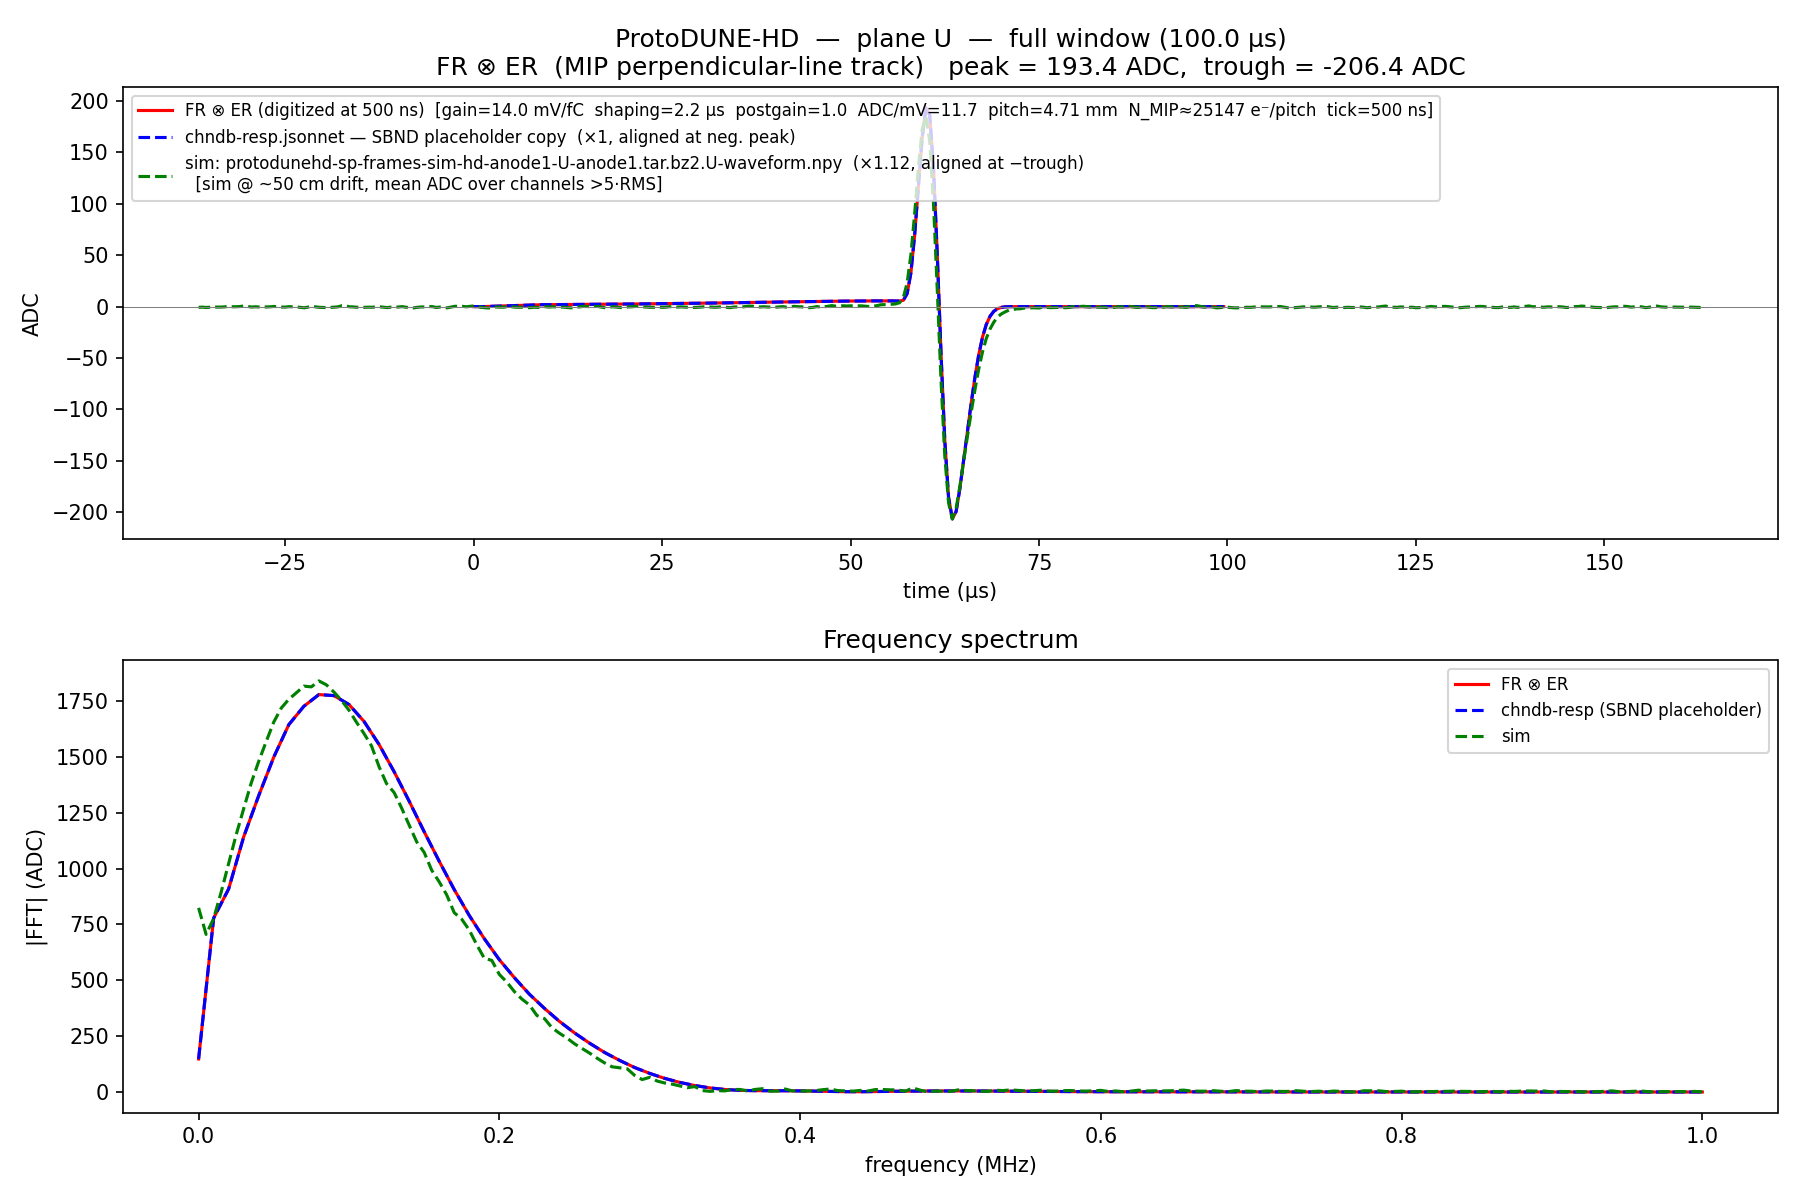
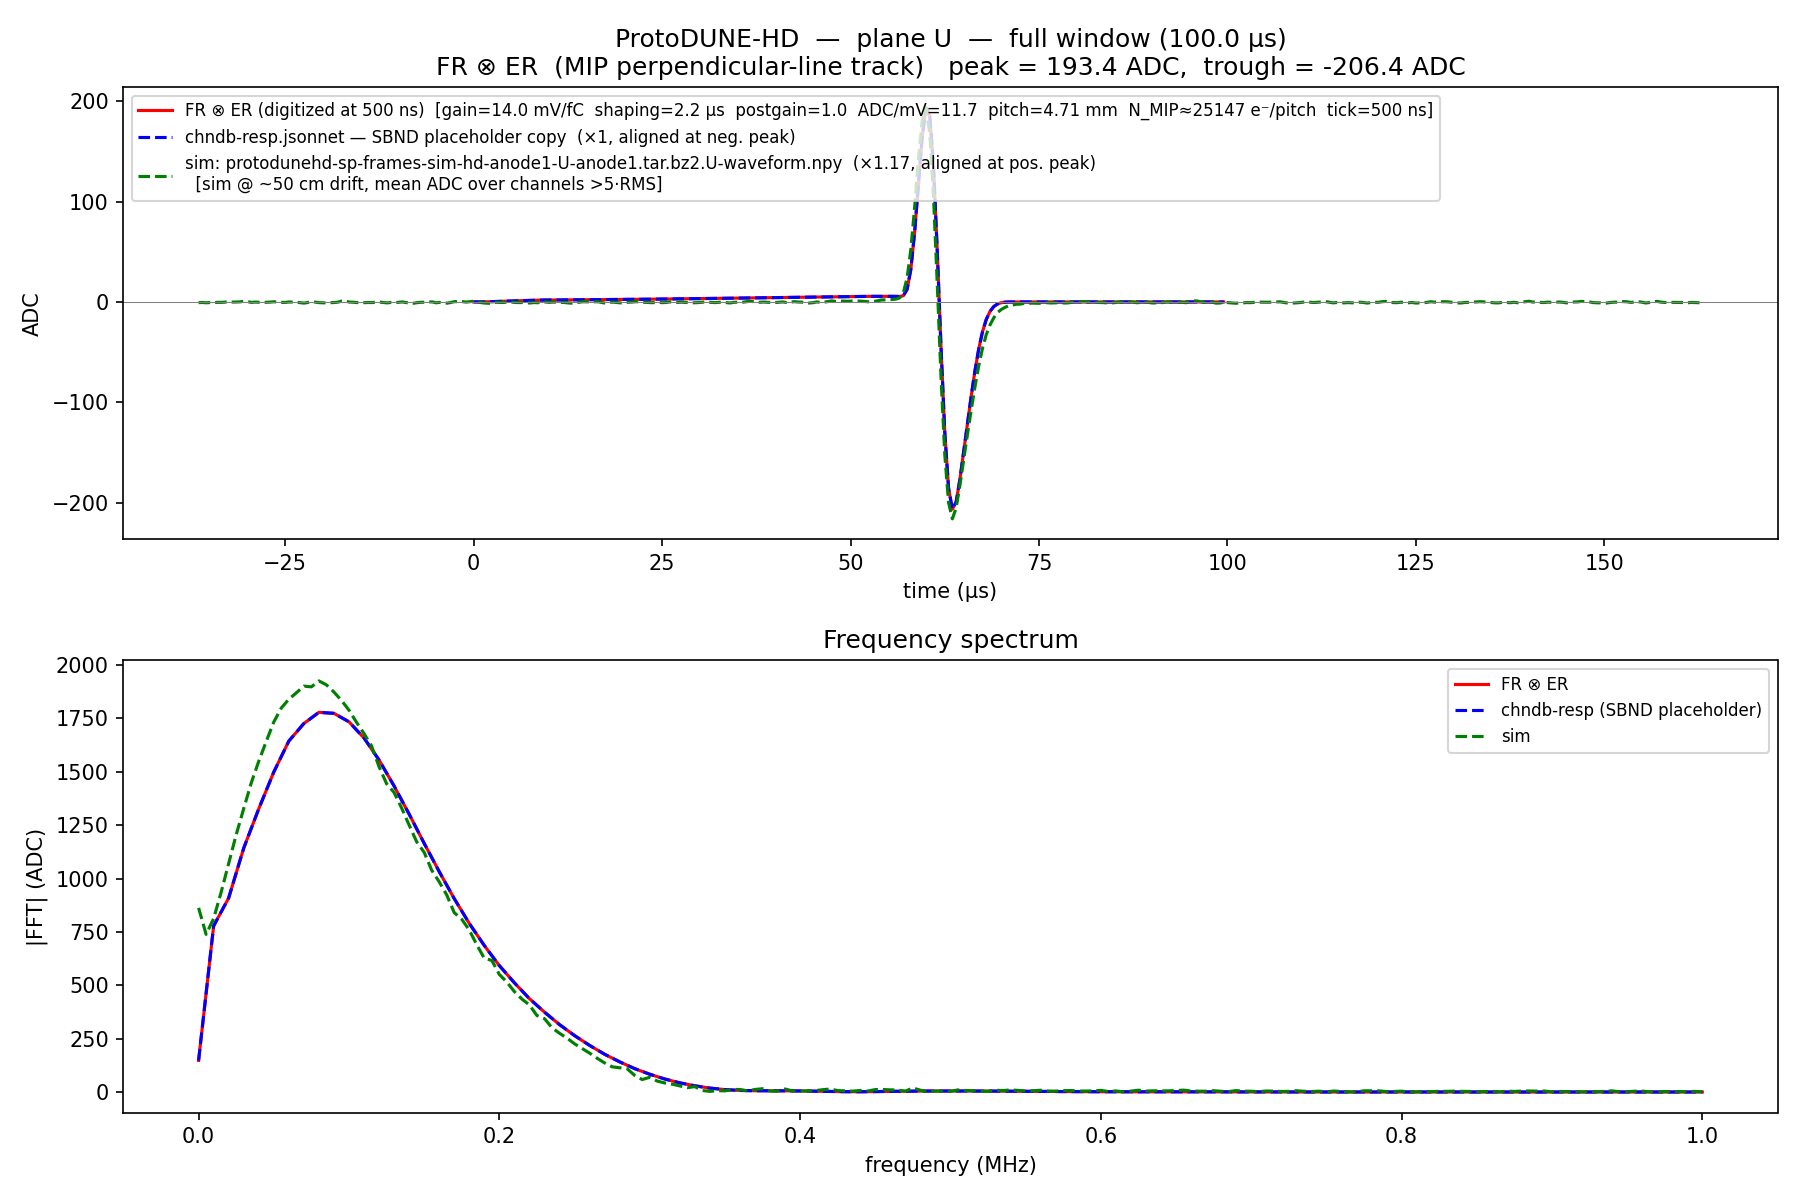
pdvd/nf_plot: fix sim-overlay alignment to pos. peak; add bipolar balance printout; add uboone plots

diff --git a/pdvd/nf_plot/track_response_pdvd_top.py b/pdvd/nf_plot/track_response_pdvd_top.py
@@ -105,9 +105,7 @@ def load_sim_overlay(plane_label):
     path = os.path.join(SIM_DIR, SIM_FILE_FMT.format(P=plane_label))
     if not os.path.exists(path):
         return None
-    y = np.load(path)
-    j = int(np.argmax(np.abs(y)))
-    return path, y, j
+    return path, np.load(path)
 
 
 def line_source_response(plane):
@@ -182,15 +180,14 @@ def make_plot(wave_adc, chndb_ref, tick_us, plane_label, pitch_mm, n_mip_pl, out
     ax.plot(t_chndb, chndb_scaled, 'b--', lw=1.5,
             label=f'chndb-resp.jsonnet — SBND placeholder copy  (×{scale:.3g}, aligned at neg. peak)')
     if sim is not None:
-        sim_path, y_sim, j_sim = sim
+        sim_path, y_sim = sim
         sim_basename = os.path.basename(sim_path)
-        i_model = int(np.argmax(wave_adc)) if y_sim[j_sim] > 0 else int(np.argmin(wave_adc))
-        y_model = wave_adc[i_model]
-        sim_scale = y_model / y_sim[j_sim]
+        j_sim = int(np.argmax(y_sim))
+        i_model = int(np.argmax(wave_adc))
+        sim_scale = wave_adc[i_model] / y_sim[j_sim]
         t_sim = t_us[i_model] + (np.arange(len(y_sim)) - j_sim) * SIM_TICK_US
-        align_lbl = '+peak' if y_sim[j_sim] > 0 else '−trough'
         ax.plot(t_sim, y_sim * sim_scale, 'g--', lw=1.5,
-                label=(f'sim: {sim_basename}  (×{sim_scale:.3g}, aligned at {align_lbl})'
+                label=(f'sim: {sim_basename}  (×{sim_scale:.3g}, aligned at pos. peak)'
                        f'\n  [sim @ ~50 cm drift, mean ADC over channels >5·RMS]'))
     ax.axhline(0, color='gray', lw=0.5)
     ax.set_xlabel('time (µs)')
@@ -309,6 +306,14 @@ def run():
         print(f'                             '
               f'negative trough {pk_neg_adc:+.2f} ADC at {t_neg:.2f} µs')
 
+        sum_pos = float(wave_adc[wave_adc > 0].sum()) * tick_us
+        sum_neg = float(wave_adc[wave_adc < 0].sum()) * tick_us
+        net     = sum_pos + sum_neg
+        total   = sum_pos - sum_neg
+        balance = net / total
+        print(f'  bipolar balance:  ∫+ = {sum_pos:+.2f}  ∫- = {sum_neg:+.2f}  '
+              f'net = {net:+.2f}  total = {total:.2f}  balance = {balance:+.4f} (ADC·µs)')
+
         chndb_ref = chndb[chndb_keys[pid]]
         i_neg_c   = int(np.argmin(chndb_ref))
         scale     = pk_neg_adc / chndb_ref[i_neg_c]
@@ -317,11 +322,11 @@ def run():
 
         sim = load_sim_overlay(label)
         if sim is not None:
-            sim_path, y_sim, j_sim = sim
-            i_model = int(np.argmax(wave_adc)) if y_sim[j_sim] > 0 else int(np.argmin(wave_adc))
-            sim_scale = wave_adc[i_model] / y_sim[j_sim]
+            sim_path, y_sim = sim
+            j_sim = int(np.argmax(y_sim))
+            sim_scale = wave_adc[np.argmax(wave_adc)] / y_sim[j_sim]
             print(f'  sim overlay: {os.path.basename(sim_path)}  '
-                  f'peak|y|={abs(y_sim[j_sim]):.2f} at idx {j_sim},  scale={sim_scale:.4g}')
+                  f'pos peak={y_sim[j_sim]:.2f} at idx {j_sim},  scale={sim_scale:.4g}')
 
         outpath = os.path.join(WORKDIR, f'track_response_pdvd_top_{label}.png')
         make_plot(wave_adc, chndb_ref, tick_us, label, pl.pitch, n_mip_pl, outpath, er_info, sim=sim)

diff --git a/pdvd/nf_plot/track_response_pdvd_bottom.py b/pdvd/nf_plot/track_response_pdvd_bottom.py
@@ -87,9 +87,7 @@ def load_sim_overlay(plane_label):
     path = os.path.join(SIM_DIR, SIM_FILE_FMT.format(P=plane_label))
     if not os.path.exists(path):
         return None
-    y = np.load(path)
-    j = int(np.argmax(np.abs(y)))
-    return path, y, j
+    return path, np.load(path)
 
 
 def line_source_response(plane):
@@ -165,15 +163,14 @@ def make_plot(wave_adc, chndb_ref, tick_us, plane_label, pitch_mm, n_mip_pl, out
     ax.plot(t_chndb, chndb_scaled, 'b--', lw=1.5,
             label=f'chndb-resp.jsonnet — SBND placeholder copy  (×{scale:.3g}, aligned at neg. peak)')
     if sim is not None:
-        sim_path, y_sim, j_sim = sim
+        sim_path, y_sim = sim
         sim_basename = os.path.basename(sim_path)
-        i_model = int(np.argmax(wave_adc)) if y_sim[j_sim] > 0 else int(np.argmin(wave_adc))
-        y_model = wave_adc[i_model]
-        sim_scale = y_model / y_sim[j_sim]
+        j_sim = int(np.argmax(y_sim))
+        i_model = int(np.argmax(wave_adc))
+        sim_scale = wave_adc[i_model] / y_sim[j_sim]
         t_sim = t_us[i_model] + (np.arange(len(y_sim)) - j_sim) * SIM_TICK_US
-        align_lbl = '+peak' if y_sim[j_sim] > 0 else '−trough'
         ax.plot(t_sim, y_sim * sim_scale, 'g--', lw=1.5,
-                label=(f'sim: {sim_basename}  (×{sim_scale:.3g}, aligned at {align_lbl})'
+                label=(f'sim: {sim_basename}  (×{sim_scale:.3g}, aligned at pos. peak)'
                        f'\n  [sim @ ~50 cm drift, mean ADC over channels >5·RMS]'))
     ax.axhline(0, color='gray', lw=0.5)
     ax.set_xlabel('time (µs)')
@@ -274,6 +271,14 @@ def run():
         print(f'                             '
               f'negative trough {pk_neg_adc:+.2f} ADC at {t_neg:.2f} µs')
 
+        sum_pos = float(wave_adc[wave_adc > 0].sum()) * tick_us
+        sum_neg = float(wave_adc[wave_adc < 0].sum()) * tick_us
+        net     = sum_pos + sum_neg
+        total   = sum_pos - sum_neg
+        balance = net / total
+        print(f'  bipolar balance:  ∫+ = {sum_pos:+.2f}  ∫- = {sum_neg:+.2f}  '
+              f'net = {net:+.2f}  total = {total:.2f}  balance = {balance:+.4f} (ADC·µs)')
+
         chndb_ref = chndb[chndb_keys[pid]]
         i_neg_c   = int(np.argmin(chndb_ref))
         scale     = pk_neg_adc / chndb_ref[i_neg_c]
@@ -282,11 +287,11 @@ def run():
 
         sim = load_sim_overlay(label)
         if sim is not None:
-            sim_path, y_sim, j_sim = sim
-            i_model = int(np.argmax(wave_adc)) if y_sim[j_sim] > 0 else int(np.argmin(wave_adc))
-            sim_scale = wave_adc[i_model] / y_sim[j_sim]
+            sim_path, y_sim = sim
+            j_sim = int(np.argmax(y_sim))
+            sim_scale = wave_adc[np.argmax(wave_adc)] / y_sim[j_sim]
             print(f'  sim overlay: {os.path.basename(sim_path)}  '
-                  f'peak|y|={abs(y_sim[j_sim]):.2f} at idx {j_sim},  scale={sim_scale:.4g}')
+                  f'pos peak={y_sim[j_sim]:.2f} at idx {j_sim},  scale={sim_scale:.4g}')
 
         outpath = os.path.join(WORKDIR, f'track_response_pdvd_bottom_{label}.png')
         make_plot(wave_adc, chndb_ref, tick_us, label, pl.pitch, n_mip_pl, outpath, sim=sim)

diff --git a/pdvd/nf_plot/track_response_pdhd.py b/pdvd/nf_plot/track_response_pdhd.py
@@ -82,9 +82,7 @@ def load_sim_overlay(plane_label):
     path = os.path.join(SIM_DIR, SIM_FILE_FMT.format(P=plane_label))
     if not os.path.exists(path):
         return None
-    y = np.load(path)
-    j = int(np.argmax(np.abs(y)))
-    return path, y, j
+    return path, np.load(path)
 
 
 def line_source_response(plane):
@@ -160,15 +158,14 @@ def make_plot(wave_adc, chndb_ref, tick_us, plane_label, pitch_mm, n_mip_pl, out
     ax.plot(t_chndb, chndb_scaled, 'b--', lw=1.5,
             label=f'chndb-resp.jsonnet — SBND placeholder copy  (×{scale:.3g}, aligned at neg. peak)')
     if sim is not None:
-        sim_path, y_sim, j_sim = sim
+        sim_path, y_sim = sim
         sim_basename = os.path.basename(sim_path)
-        i_model = int(np.argmax(wave_adc)) if y_sim[j_sim] > 0 else int(np.argmin(wave_adc))
-        y_model = wave_adc[i_model]
-        sim_scale = y_model / y_sim[j_sim]
+        j_sim = int(np.argmax(y_sim))
+        i_model = int(np.argmax(wave_adc))
+        sim_scale = wave_adc[i_model] / y_sim[j_sim]
         t_sim = t_us[i_model] + (np.arange(len(y_sim)) - j_sim) * SIM_TICK_US
-        align_lbl = '+peak' if y_sim[j_sim] > 0 else '−trough'
         ax.plot(t_sim, y_sim * sim_scale, 'g--', lw=1.5,
-                label=(f'sim: {sim_basename}  (×{sim_scale:.3g}, aligned at {align_lbl})'
+                label=(f'sim: {sim_basename}  (×{sim_scale:.3g}, aligned at pos. peak)'
                        f'\n  [sim @ ~50 cm drift, mean ADC over channels >5·RMS]'))
     ax.axhline(0, color='gray', lw=0.5)
     ax.set_xlabel('time (µs)')
@@ -259,6 +256,14 @@ def run():
         print(f'                             '
               f'negative trough {pk_neg_adc:+.2f} ADC at {t_neg:.2f} µs')
 
+        sum_pos = float(wave_adc[wave_adc > 0].sum()) * tick_us
+        sum_neg = float(wave_adc[wave_adc < 0].sum()) * tick_us
+        net     = sum_pos + sum_neg
+        total   = sum_pos - sum_neg
+        balance = net / total
+        print(f'  bipolar balance:  ∫+ = {sum_pos:+.2f}  ∫- = {sum_neg:+.2f}  '
+              f'net = {net:+.2f}  total = {total:.2f}  balance = {balance:+.4f} (ADC·µs)')
+
         chndb_ref = chndb[chndb_keys[pid]]
         i_neg_c   = int(np.argmin(chndb_ref))
         scale     = pk_neg_adc / chndb_ref[i_neg_c]
@@ -267,11 +272,11 @@ def run():
 
         sim = load_sim_overlay(label)
         if sim is not None:
-            sim_path, y_sim, j_sim = sim
-            i_model = int(np.argmax(wave_adc)) if y_sim[j_sim] > 0 else int(np.argmin(wave_adc))
-            sim_scale = wave_adc[i_model] / y_sim[j_sim]
+            sim_path, y_sim = sim
+            j_sim = int(np.argmax(y_sim))
+            sim_scale = wave_adc[np.argmax(wave_adc)] / y_sim[j_sim]
             print(f'  sim overlay: {os.path.basename(sim_path)}  '
-                  f'peak|y|={abs(y_sim[j_sim]):.2f} at idx {j_sim},  scale={sim_scale:.4g}')
+                  f'pos peak={y_sim[j_sim]:.2f} at idx {j_sim},  scale={sim_scale:.4g}')
 
         outpath = os.path.join(WORKDIR, f'track_response_pdhd_{label}.png')
         make_plot(wave_adc, chndb_ref, tick_us, label, pl.pitch, n_mip_pl, outpath, sim=sim)
